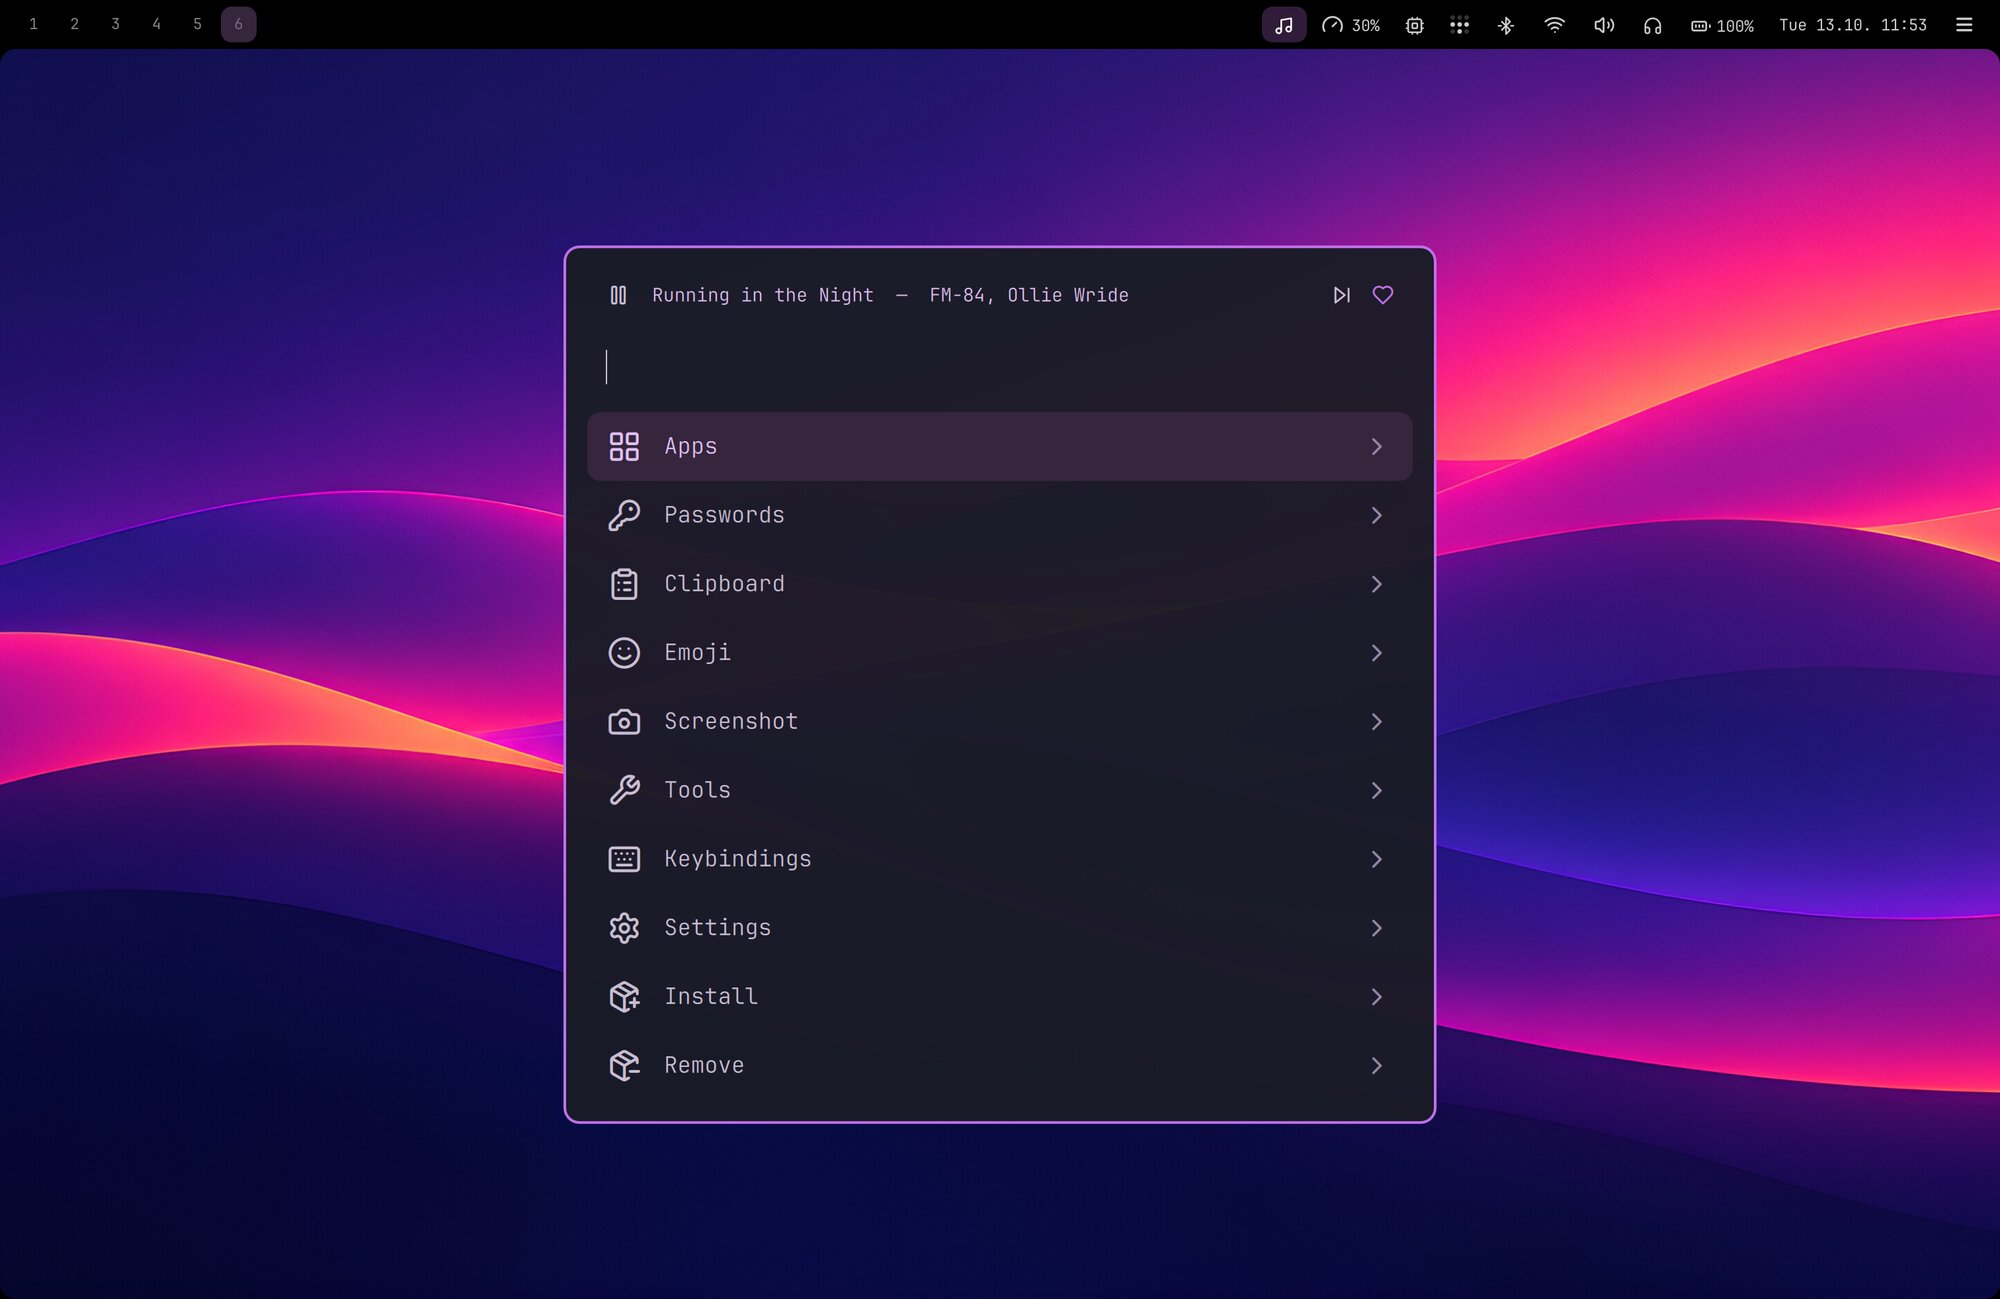
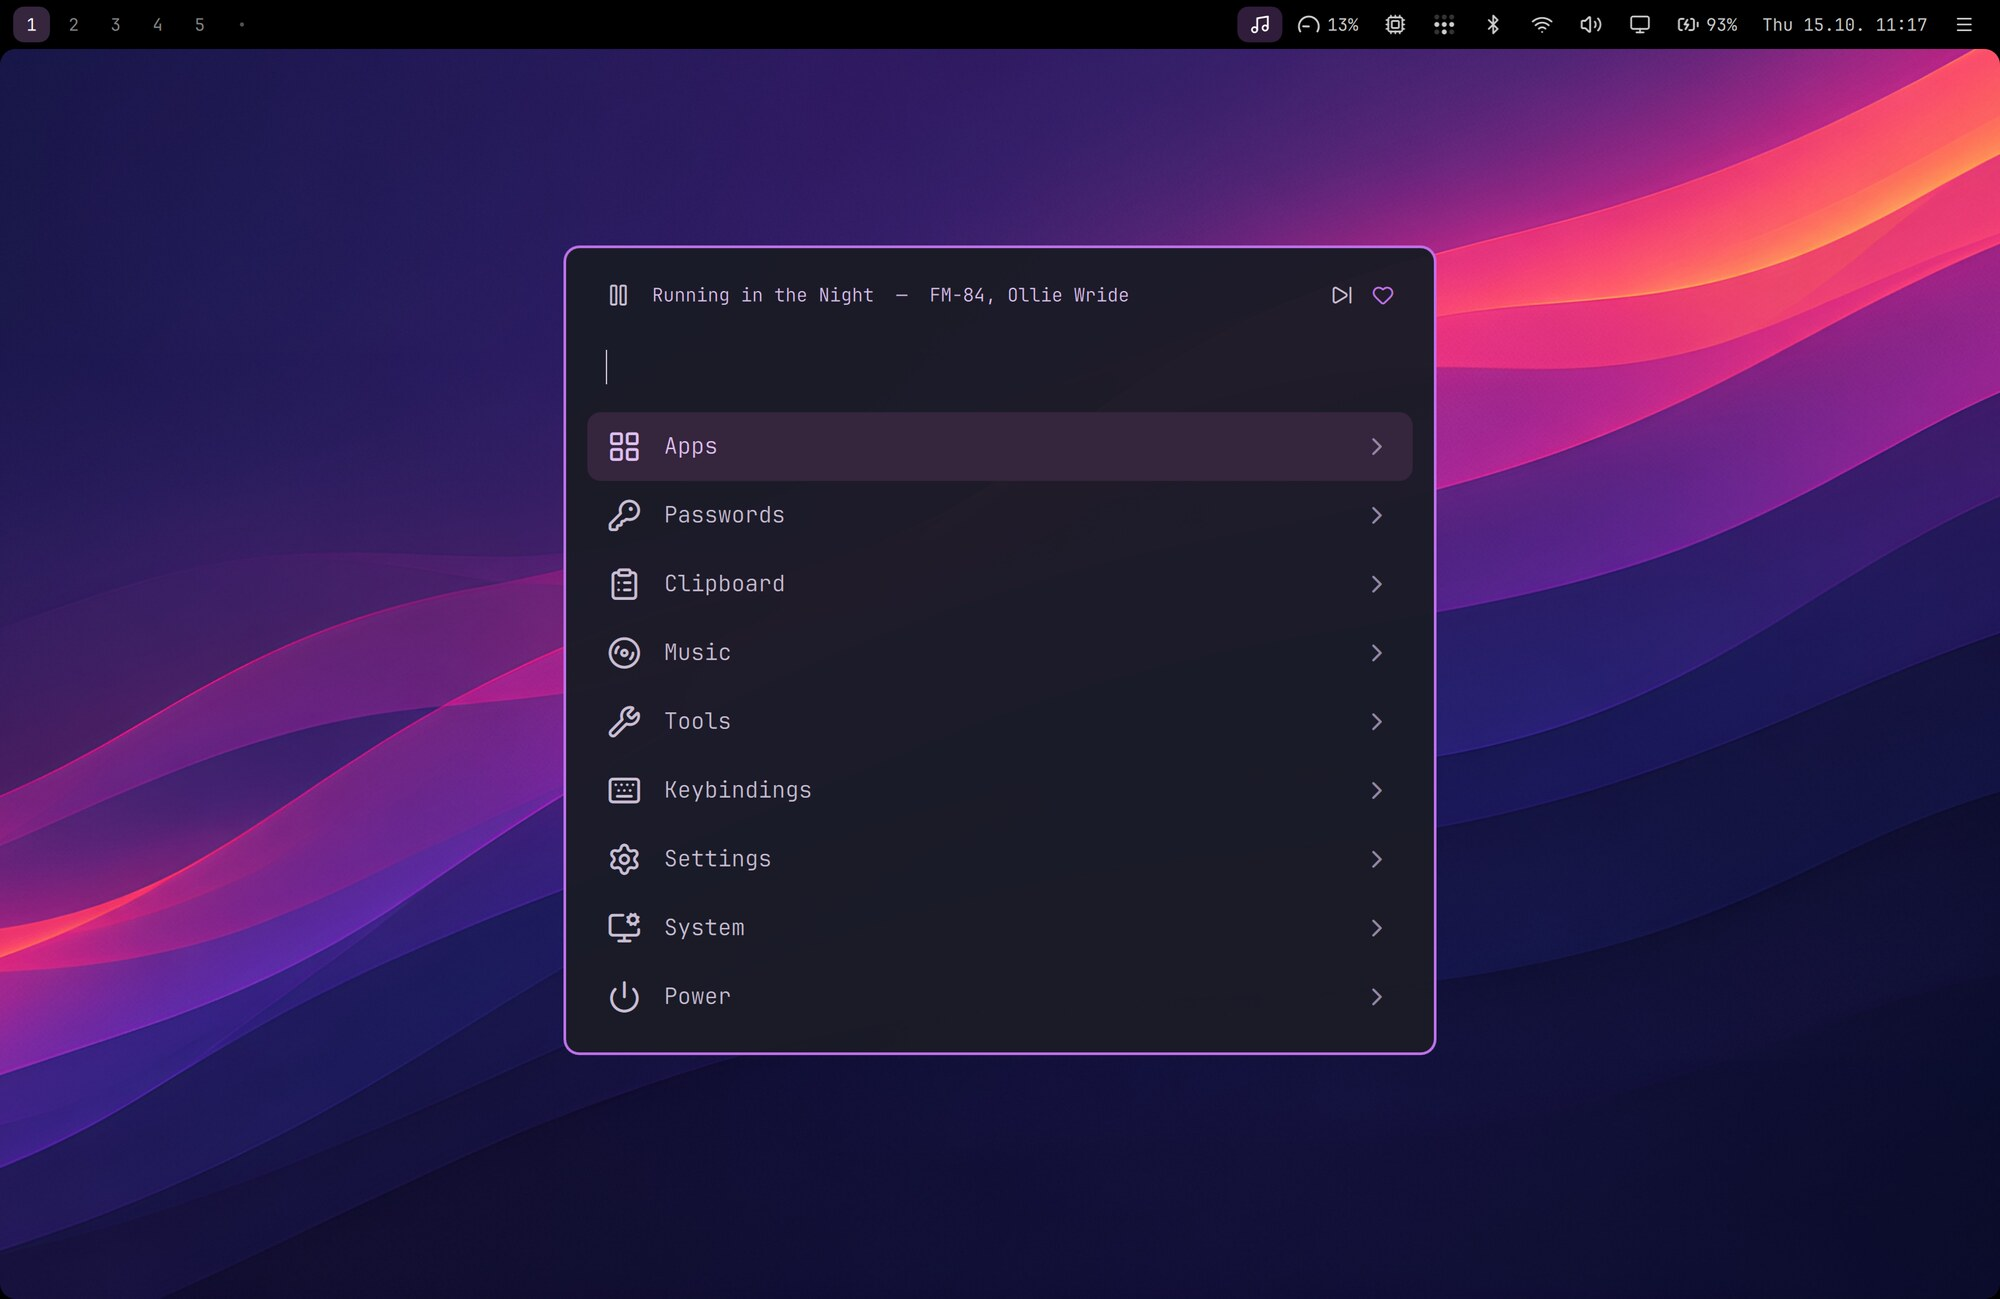
README: new screenshots, the drawer, and how to participate
Screenshots retaken (display menu instead of the calendar, the drawer is
new). The intro says keyboard-driven, night light is left out of the list,
the clock joins the screensavers, and a new section points to Discussions,
issues and pull requests.

diff --git a/README.md b/README.md
@@ -1,16 +1,17 @@
 # Nightdrive
 
-**A synthwave-tinted Hyprland desktop for Apple Silicon Macs running Fedora Asahi Remix.**
-Mac shortcuts, one launcher for everything, a top bar that behaves like the macOS menu bar, and a look you can change in a click.
+**A keyboard-driven Hyprland desktop for Apple Silicon Macs running Fedora Asahi Remix.**
+Mac shortcuts, one launcher for everything, a top bar that behaves like the macOS menu bar, and a synthwave look you can
+change in a click.
 
 ![Nightdrive: Firefox, Deck playing FM-84 and the launcher on top](docs/screenshots/desktop.jpg)
 
-**Hi, I'm Jari Lehtinen.** I've used a Mac for over 15 years. Every year or so I've tried a Linux distro or two, but none of them
+**Hi, I'm Jari Lehtinen.** I've used a Mac for over 20 years. Every year or so I've tried a Linux distro or two, but none of them quite
 stuck. Omarchy came closest, but I wanted something built entirely around my own preferences and the apps I actually use.
 In my day job as a web developer, user interfaces and ease of use are at the core of what I do, and that's what I wanted from
 my desktop too: ⌘ shortcuts, a launcher like Spotlight, a menu bar that just works, only faster and lighter.
 So I installed Fedora Asahi on my MacBook Pro and built Nightdrive, evening by evening and with a lot
-of help from Claude Code. If you're a Mac person curious about Linux on Apple Silicon, I hope it makes the jump easier.
+of help from Claude Code.
 
 > **Work in progress.** Nightdrive is my daily setup, published so others can use it or borrow from it. It has been tested on
 > one machine so far (MacBook Pro 14″, M2 Max). Feedback, issues and ideas are very welcome.
@@ -18,8 +19,7 @@ of help from Claude Code. If you're a Mac person curious about Linux on Apple Si
 ## Why Nightdrive?
 
 [Hyprland](https://hypr.land) is a great tiling compositor, but on its own it's a toolkit: no bar, launcher, theme or apps.
-Nightdrive puts all of that together into one opinionated desktop, made for **Fedora Asahi**, **Apple Silicon** and
-**habits from macOS**.
+Nightdrive puts all of that together into one opinionated desktop.
 
 - **⌘ is the main key.** ⌘C / ⌘V / ⌘X work in every app, including the terminal. ⌘W closes, ⌘Q quits, ⌘Space opens the launcher.
 - **Built for the MacBook.** The top bar sits in the notch area. The display uses a clean 2× scale. The top-row keys control
@@ -45,27 +45,33 @@ Click an icon and a small menu opens under it: sound and output devices, Wi-Fi, 
 headphone EQ, system load and temperatures, the calendar, notifications, music, and your **Claude usage limits**. ⌘⇧Space lets
 you walk through the menus with the arrow keys.
 
-![Claude usage, system and calendar menus](docs/screenshots/menus.jpg)
+![Claude usage, system and display menus](docs/screenshots/menus.jpg)
 
 ### Make it yours in a click
 
 Pick from seven theme colours: Violet, Blue, Teal, Green, Amber, Rose or Graphite. The colour changes the menus, launcher,
 window borders, notifications, lock screen and top bar at once. Two synthwave wallpapers come with it, and you can add your own.
-The top bar's opacity, icon colours and highlight colour are all settings in the launcher, and so is the display scale
-(Settings › Display, for each screen).
+The top bar's items, opacity, and colours are all settings in the launcher.
 
 ![Settings › Theme › Color with Teal selected](docs/screenshots/themes.jpg)
+
+### A drawer for what you want at hand
+
+⌘S drops the active window into the drawer, and ⌘D slides the drawer up over your windows, dimming and blurring the rest.
+⌘D again puts it away. ⌘S in the drawer sends the window back to the workspace and place it came from. It suits notes,
+a to-do list or a chat you want one keystroke away without giving them a workspace of their own.
+
+![The drawer empty, and with a terminal and Files in it](docs/screenshots/drawer.jpg)
 
 ### Little things that add up
 
 - **Shelf**: drag a file to the top edge of the screen to park it, then drag it into another app (like Dropover / Yoink).
 - **Dictation**: hold F5 or Fn, speak, and let go. It runs fully offline with Voxtype and Parakeet ([setup](docs/dictation.md)).
-- **Night light**: a warm screen tint for the evening (Settings › Display, or the display icon in the bar). It works
-  through Hyprland's screen shader, since Asahi's display driver has no gamma tables for gammastep and the like.
 - **Screen Mirroring**: mirror the screen to an Apple TV or an AirPlay TV from the display menu or the launcher (search
   "airplay"), with sound. Google Cast works from Chromium (⋮ › Cast…). Sharing the screen, for these and video calls, asks
   in a themed window: the whole screen or one window.
-- **Screensavers**: a synthwave sunset and a falling-characters rain, both drawn in the terminal.
+- **Screensavers**: a synthwave sunset and a falling-characters rain, both drawn in the terminal, and a big clock whose
+  digits slide up as the minutes change.
 - **Background apps**: ⌘W only hides chat apps and the music player, so they keep running. Their shortcut brings them straight back.
 - **Web apps**: turn any site into an app window from the launcher (System › Install › Webapp).
 - **Installing apps**: System › Install › Software searches Fedora's packages and Flathub's apps at once, one row per app (Fedora's
@@ -175,6 +181,7 @@ The same `nightdrive` command reaches the settings from a terminal (`nightdrive`
 | ⌘ W · ⌘ Q | Close (background apps are only hidden) · really quit |
 | ⌘ F · ⌘ T · ⌘ J | Fullscreen · floating · split direction |
 | ⌘ 1…0 · ⌘ ⇧ 1…0 | Go to workspace · move the window there |
+| ⌘ D · ⌘ S | Drawer: show / hide · put the window in it, or take it back out |
 | ⌘ ⇧ V · ⌘ ⇧ E | Clipboard history · emoji |
 | ⌘ R · ⌘ ⇧ R | Screenshot of a region · of a window, to the clipboard |
 | ⌘ ⇧ B / F / P / M / I | Browser / Files / 1Password / Music / Mail |
@@ -229,12 +236,27 @@ The full list is in [`config/hypr/SHORTCUTS.md`](config/hypr/SHORTCUTS.md).
 - **The Claude usage menu** reads your plan's limits with Claude Code's own sign-in, so Claude Code must have been run once.
 - **No credentials are stored in this repo.** Tokens stay with each app (Deck, Claude Code) or in 1Password.
 
+## Want to participate?
+
+Nightdrive is work in progress, and help of almost any kind moves it forward:
+
+- **Try it on your Mac.** It has only been tested on a MacBook Pro 14″ with M2 Max. A report from any other Apple Silicon
+  model is valuable (in Discussions), whether everything worked or something broke.
+- **Ask or share in [Discussions](https://github.com/jarilehtinen/nightdrive/discussions):** questions, ideas, how it runs
+  on your Mac, or a screenshot of your setup.
+- **Open an [issue](https://github.com/jarilehtinen/nightdrive/issues)** for a bug or a rough edge. A screenshot or the output
+  of the failing command helps a lot.
+- **Send a pull request.** Keep it small and in the spirit of the rest: plain files, comments that explain *why*, and nothing
+  personal (that goes in the git-ignored local slots, see [Make it yours](#make-it-yours)). [`AGENTS.md`](AGENTS.md) has the
+  working notes, handy for people and coding agents alike.
+- **Make wallpapers.** See below.
+
 ## Credits
 
 Inspired by [Omarchy](https://omarchy.org). Built on [Hyprland](https://hypr.land) and [Quickshell](https://quickshell.org), on top of the [Asahi Linux](https://asahilinux.org) team's work. The colours start
 from the [Tokyo Night](https://github.com/enkia/tokyo-night-vscode-theme) palette, and the icons are [Lucide](https://lucide.dev) (ISC).
 The wallpapers were made with ChatGPT image generation for now. I'd much rather ship wallpapers by real artists, so if you make
-synthwave art (or know someone who does) and would like it included, please get in touch. The Tailscale logo in the bar is Tailscale's trademark.
+synthwave art (or know someone who does) and would like it included, please get in touch in Discussions. The Tailscale logo in the bar is Tailscale's trademark.
 
 ## License
 
